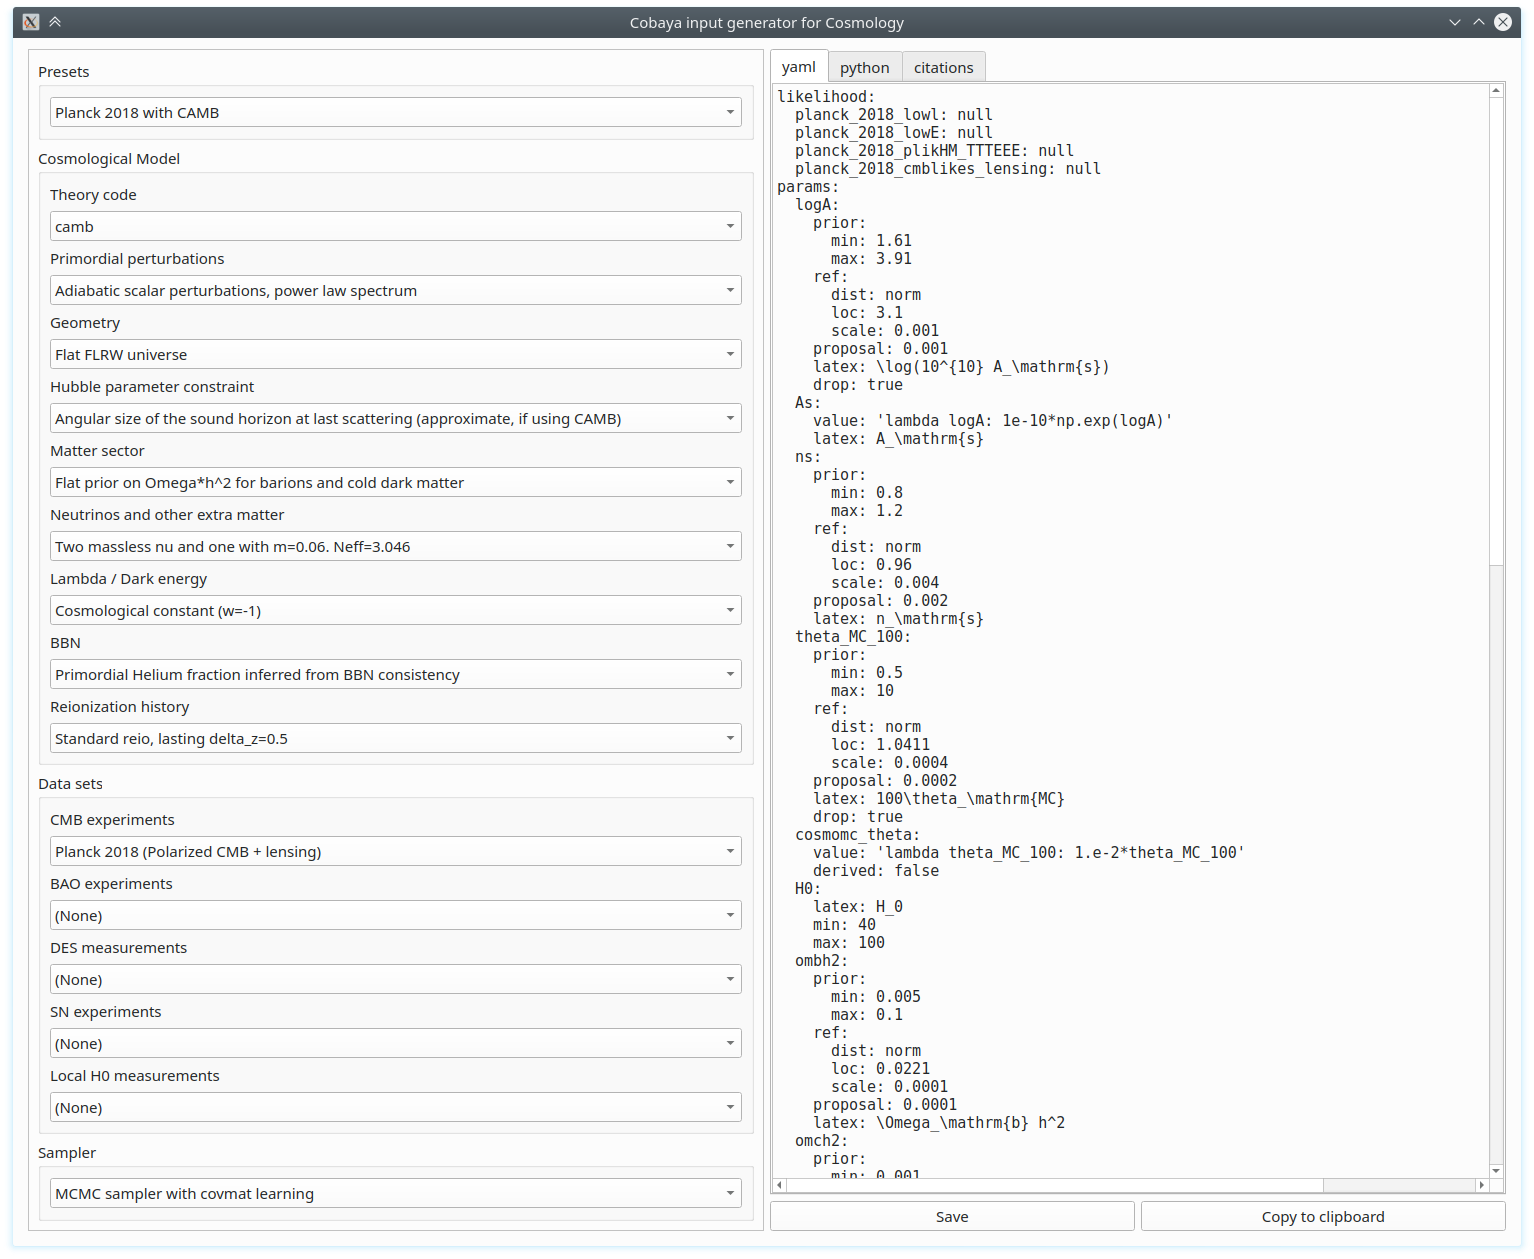
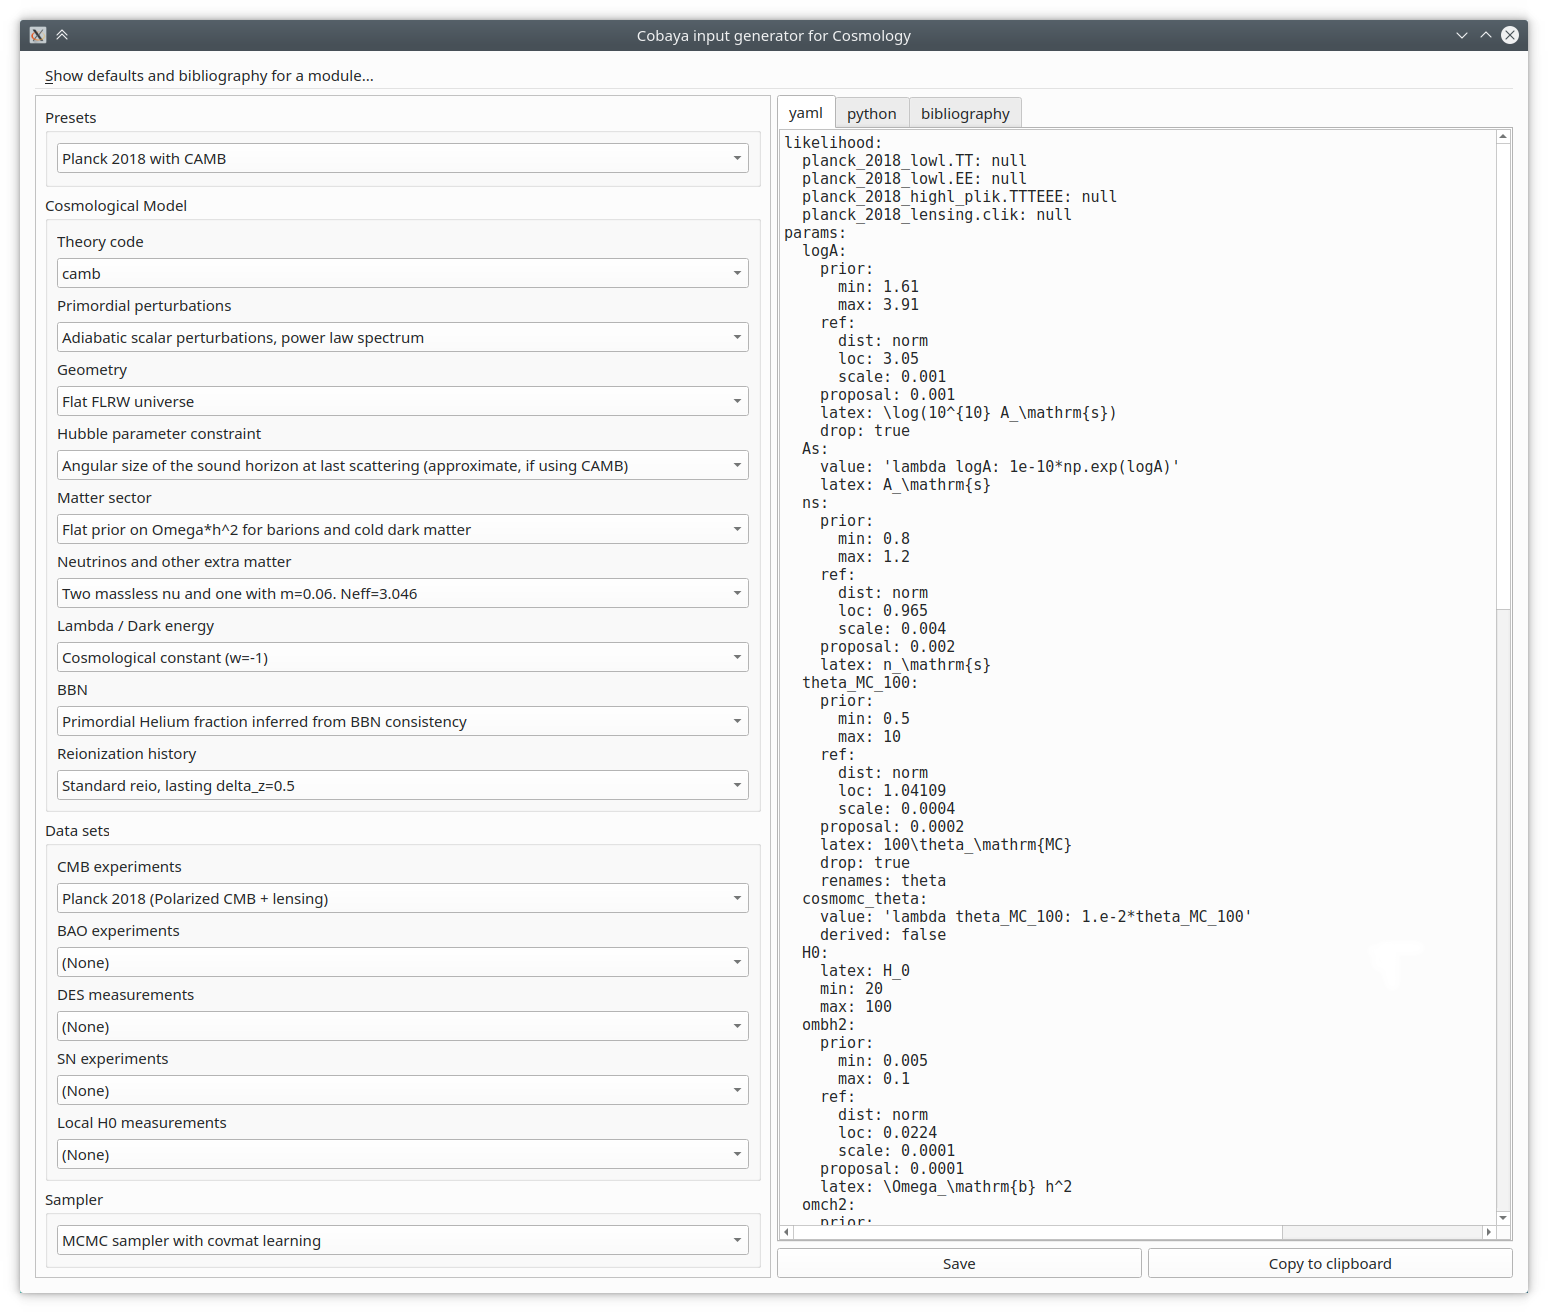
changelog and more docs

Changed region(s): [[0.0, 0.0, 1.0, 0.9913]]

diff --git a/CHANGELOG.md b/CHANGELOG.md
@@ -1,11 +1,40 @@
-## 2.0  – 2019-07-XX
+## 2.0 – 2019-08-20
+
+### General
+
+- Added fuzzy matching for names of modules and parameters in a few places. Now error messages show possible misspellings.
+- Modules can now be nested, e.g. `planck_2018_lowl.TT` and `planck_2018_lowl.EE` as `TT.py` and `EE.py` under folder `likelihoods/planck_2018_lowl`.
+
+### Getting help offline: defaults, and bibliography
+
+- `cobaya-citation` deprecated in favour of `cobaya-bib`. In addition to taking `.yaml` input files as below, can now take individual module names.
+- `cobaya-doc` added to show defaults for particular modules.
+- Added menu to `cobaya-cosmo-generator` to show defaults for modules.
 
 ### I/O
 
-- Naming conventions for output files changed! ``*.updated.yaml`` instead of ``*.full.yaml`` for updated info, `*.[#].txt` instead of ``_[#].txt`` for chains, etc (see docs).
+- Naming conventions for output files changed! ``*.updated.yaml`` instead of ``*.full.yaml`` for updated info, `*.[#].txt` instead of ``_[#].txt`` for chains, etc (see `Output` section in documentation).
+
+### Samplers:
+
+- New, more efficient minimizer: [pyBOBYQA](https://numericalalgorithmsgroup.github.io/pybobyqa/build/html/index.html).
+
+### Cosmology:
+
+- Added full suite of Planck 2018 likelihoods.
+- Added late-time source Cl's as a cosmological observable (CAMB only, for now)
+- Changed capitalisation of some function and requests (deprecation messages and retrocompatibility added)
 
 
-## 1.2.0  – 2019-06-18
+## 1.3.0 – 2019-08-20 (archived version)
+
+### General
+
+- Backported some bug fixes.
+- Fixed versions of external codes.
+
+
+## 1.2.0 – 2019-06-18
 
 ### General
 
@@ -100,7 +129,7 @@
 - Added "citation" tab.
 
 
-## 1.0.4 – 2019-04-11
+## 1.0.4 – 2019-04-11 (archived version)
 
 ### Many bugfixes -- special thanks to Guadalupe Cañas-Herrera and Vivian Miranda!
 

diff --git a/docs/cosmo_basic_runs.rst b/docs/cosmo_basic_runs.rst
@@ -47,9 +47,7 @@ The parameter combinations and options included in the input generator are in ge
 
 Don't forget to add your installation path for the cosmological modules as ``modules: '/path/to/modules'``, and an ``output`` prefix if you wish.
 
-.. comment::
-
-   Notice the checkbox **"Keep common parameter names"**: if checked, instead of the parameter names used by CAMB or CLASS (different from each other), the input will use a common parameter names set, understandable by both. If you are using this, you can exchange both theory codes safely (just don't forget to add the ``extra_args`` generated separately for each theory code.
+.. Notice the checkbox **"Keep common parameter names"**: if checked, instead of the parameter names used by CAMB or CLASS (different from each other), the input will use a common parameter names set, understandable by both. If you are using this, you can exchange both theory codes safely (just don't forget to add the ``extra_args`` generated separately for each theory code.
 
 
 As an example, here is the input for Planck 2015 base :math:`\Lambda\mathrm{CDM}`, both for CLASS and CAMB:
@@ -168,8 +166,8 @@ You can also do this interactively, by passing your input info, as a python dict
 
 .. code-block:: python
 
-   from cobaya.citation import citation
-   citation(info)
+   from cobaya.bib import get_bib_info
+   get_bib_info(info)
 
 .. note::
 
